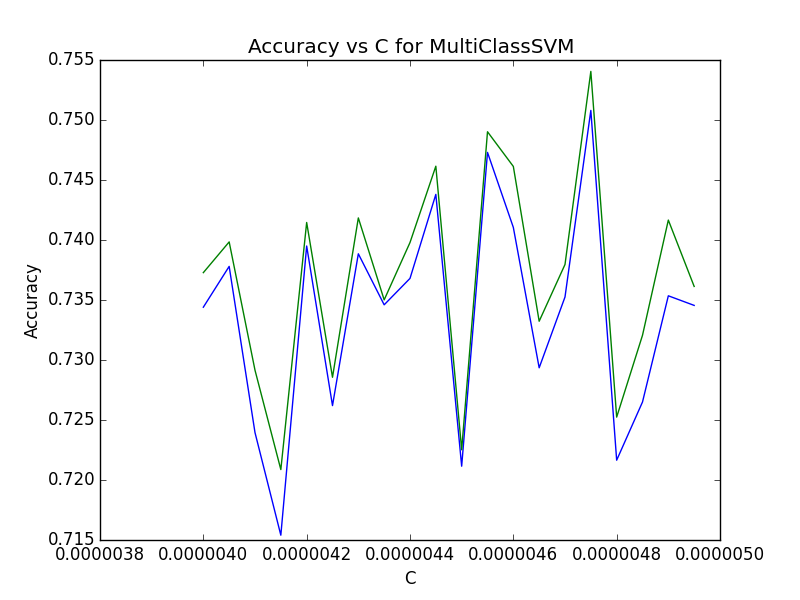
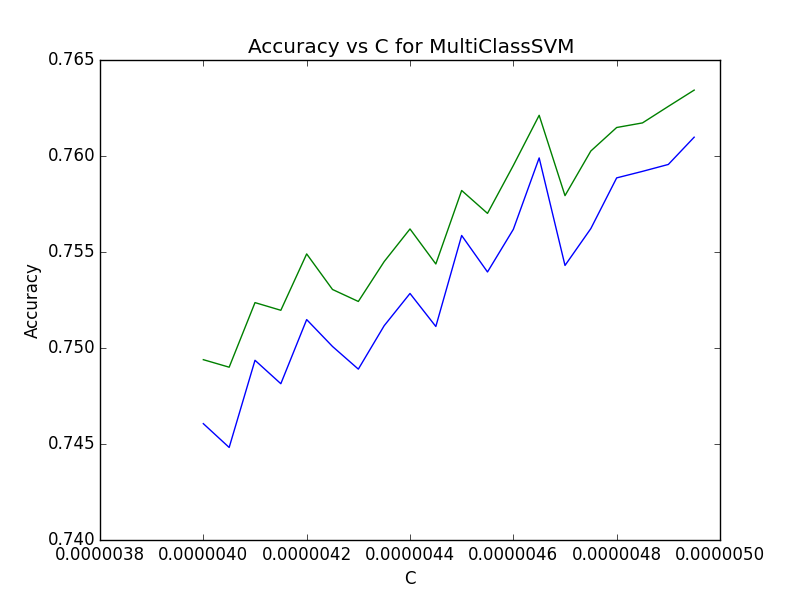
update q6

diff --git a/HW3/q6.py b/HW3/q6.py
@@ -9,8 +9,8 @@ from MultiClassSVM import MultiClassSVM
 # matplotlib.use('Agg')
 import matplotlib.pyplot as plt
 
-NOF_ITERS = 1000
-ITERS = 2
+NOF_ITERS = 30000
+ITERS = 5
 
 
 def get_train_validation_test_data():
